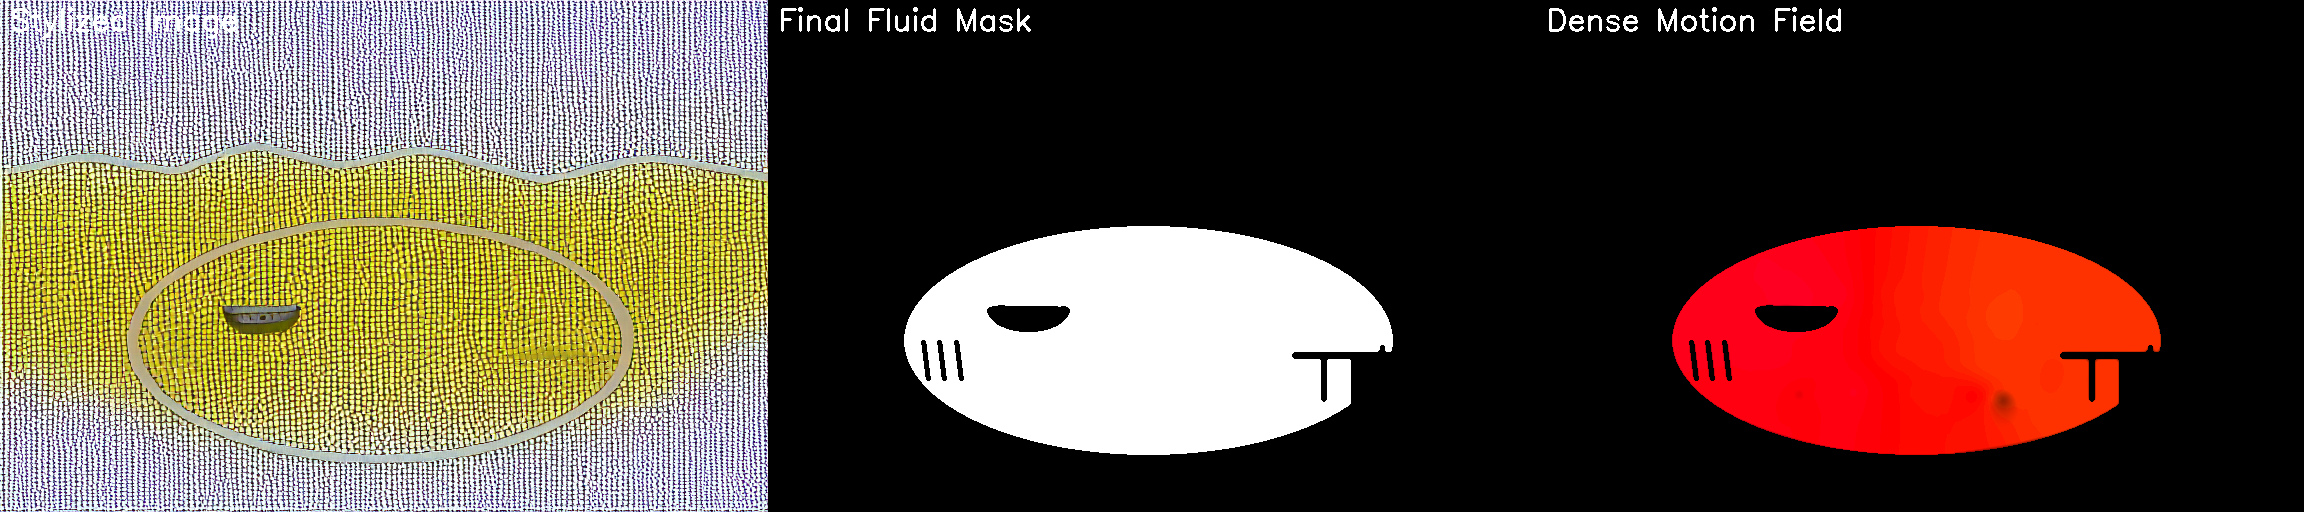
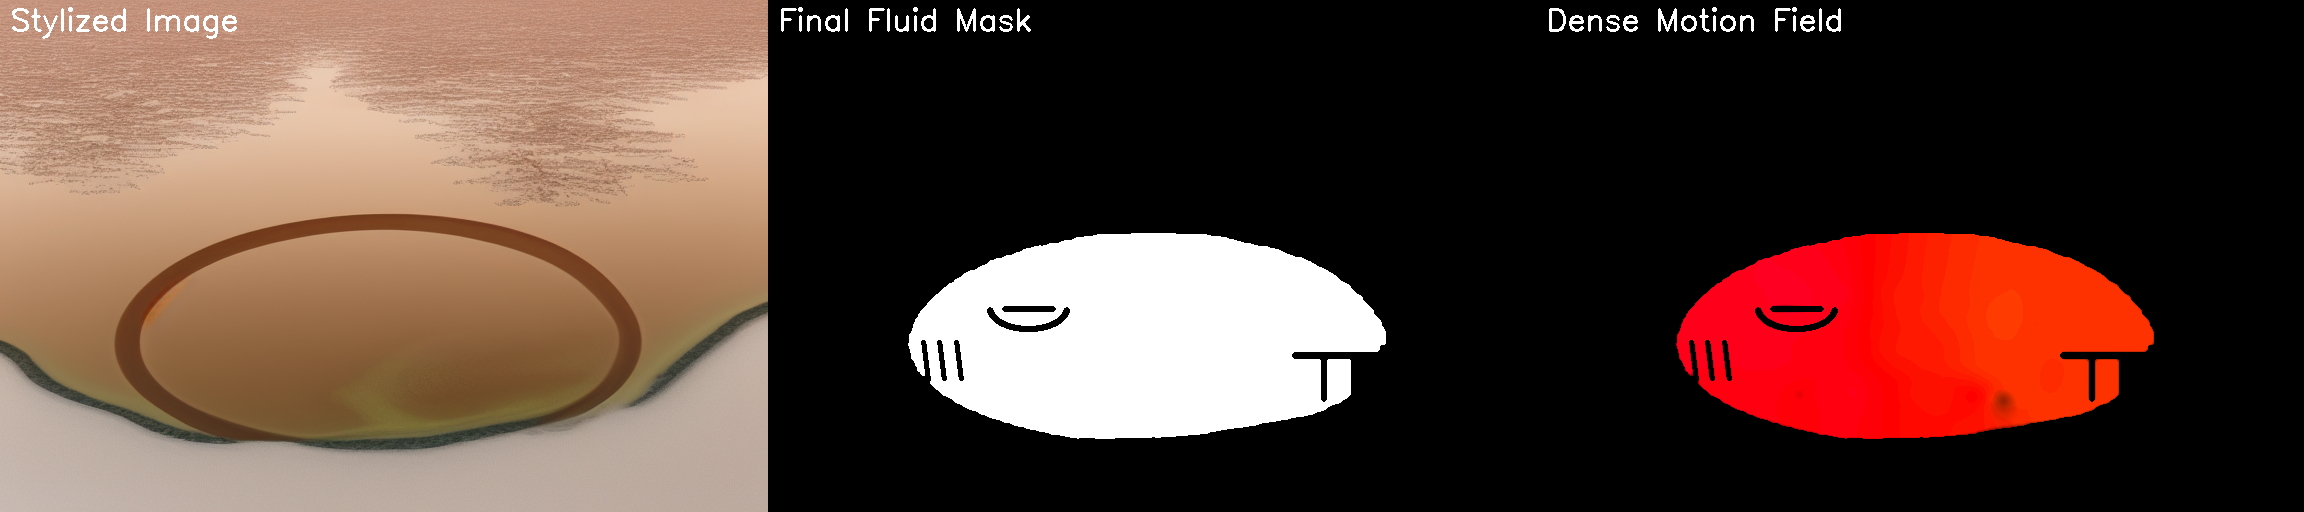
不是很完美版本

diff --git a/sketch_cinemagraph_skeleton/src/scene_generation/generator.py b/sketch_cinemagraph_skeleton/src/scene_generation/generator.py
@@ -63,20 +63,19 @@ class SceneGenerator:
             pil_image = Image.fromarray(array.astype(np.uint8)).convert("RGB")
         else:
             raise ValueError("Structural sketch must be a 2D or 3D image array.")
+
         pil_image = pil_image.resize(self.image_size, Image.Resampling.BILINEAR)
         return np.asarray(pil_image)
 
     def prepare_control_image(self, structural_sketch):
         image = self.preprocess_sketch(structural_sketch)
-        pil_image = Image.fromarray(image).convert("L")
 
-        # strengthen line structure
+        pil_image = Image.fromarray(image).convert("L")
         pil_image = ImageOps.autocontrast(pil_image)
         pil_image = ImageEnhance.Contrast(pil_image).enhance(2.2)
 
-        # optional light binarization effect
         arr = np.asarray(pil_image)
-        arr = np.where(arr > 200, 255, arr)
-        pil_image = Image.fromarray(arr.astype(np.uint8)).convert("RGB")
+        arr = np.where(arr > 200, 255, arr).astype(np.uint8)
 
+        pil_image = Image.fromarray(arr).convert("RGB")
         return pil_image

diff --git a/sketch_cinemagraph_skeleton/src/scene_generation/diffusion_backend.py b/sketch_cinemagraph_skeleton/src/scene_generation/diffusion_backend.py
@@ -6,7 +6,7 @@ import numpy as np
 class DiffusionSceneBackend:
     def __init__(self, cfg: dict) -> None:
         self.model_id = cfg.get("model_id", "runwayml/stable-diffusion-v1-5")
-        self.controlnet_id = cfg.get("controlnet_id", "lllyasviel/sd-controlnet-canny")
+        self.controlnet_id = cfg.get("controlnet_id", "lllyasviel/control_v11p_sd15_scribble")
         self.num_inference_steps = int(cfg.get("num_inference_steps", 30))
         self.guidance_scale = float(cfg.get("guidance_scale", 7.5))
         self.controlnet_conditioning_scale = float(cfg.get("controlnet_conditioning_scale", 1.0))
